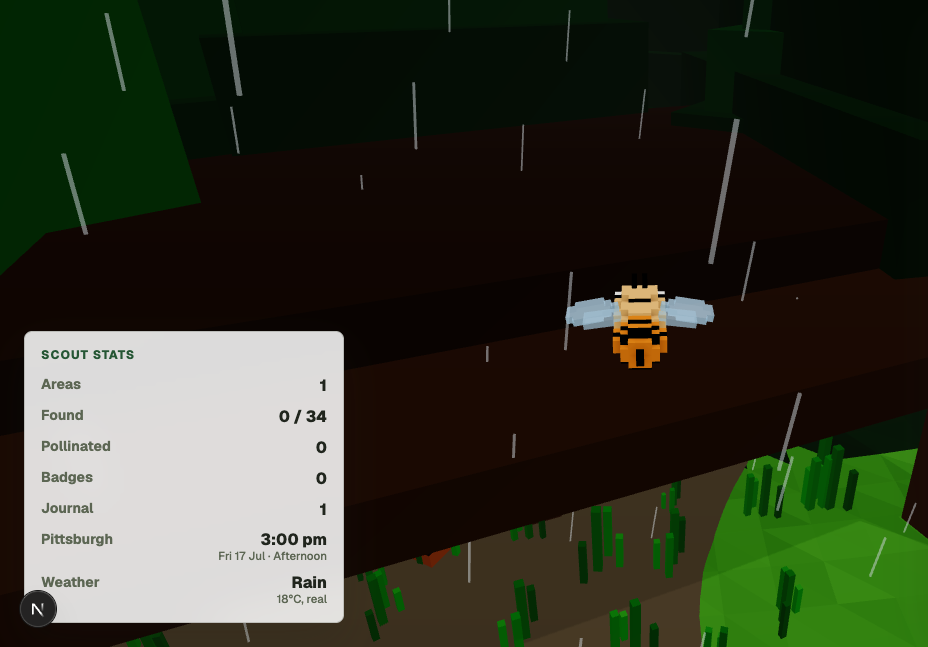
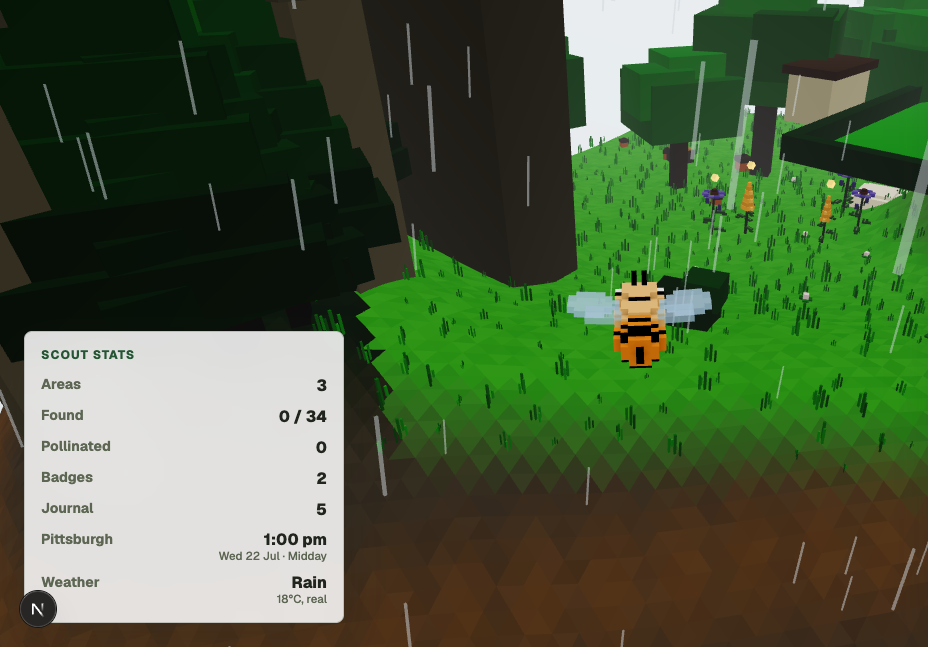
chore: refresh the home gallery with current, more diverse frames
Recapture the frames on the current build (open draw distance, ambient life) and
add a wide wooded-ravine vista that reads the whole park against a centimetre-long
bee. Drop the old midday frame in favour of the valley meadow; keep the existing
Schenley frame (Panther Hollow is mostly bare wall and did not improve). Captions
and alt text updated to match.

diff --git a/src/app/home-gallery.tsx b/src/app/home-gallery.tsx
@@ -17,19 +17,24 @@ import styles from "./home-gallery.module.css";
  */
 const SLIDES = [
   {
-    src: "/images/gallery/frick-midday.png",
-    alt: "A bee over the creek at the bottom of Frick Park at midday",
+    src: "/images/gallery/frick-valley.png",
+    alt: "A bee over the wildflower meadow of Nine Mile Run in Frick Park at midday",
     caption: "Frick Park. A wood with a creek at the bottom of it.",
   },
   {
     src: "/images/gallery/frick-dusk.png",
-    alt: "The same creek at dusk, the meadow warm with low light",
-    caption: "The same creek at dusk. The park keeps Pittsburgh time.",
+    alt: "The same meadow at dusk, warm with low light and the first fireflies",
+    caption: "The same meadow at dusk. The park keeps Pittsburgh time.",
   },
   {
     src: "/images/gallery/frick-rain.png",
-    alt: "Rain falling over Frick Park",
+    alt: "Rain falling over the meadow in Frick Park",
     caption: "Real weather. If it is raining in Squirrel Hill, it is raining here.",
+  },
+  {
+    src: "/images/gallery/frick-ravine.png",
+    alt: "The bee high over the wooded ravine, the Fern Hollow bridge beyond",
+    caption: "You are a centimetre long. The wood is a country.",
   },
   {
     src: "/images/gallery/schenley-hollow.png",
@@ -38,7 +43,7 @@ const SLIDES = [
   },
   {
     src: "/images/gallery/highland-reservoir.png",
-    alt: "Highland Park, with a reservoir wall in the distance",
+    alt: "The bee on the wooded slope above a reservoir in Highland Park",
     caption: "Highland Park. A lake on top of a hill.",
   },
 ];
